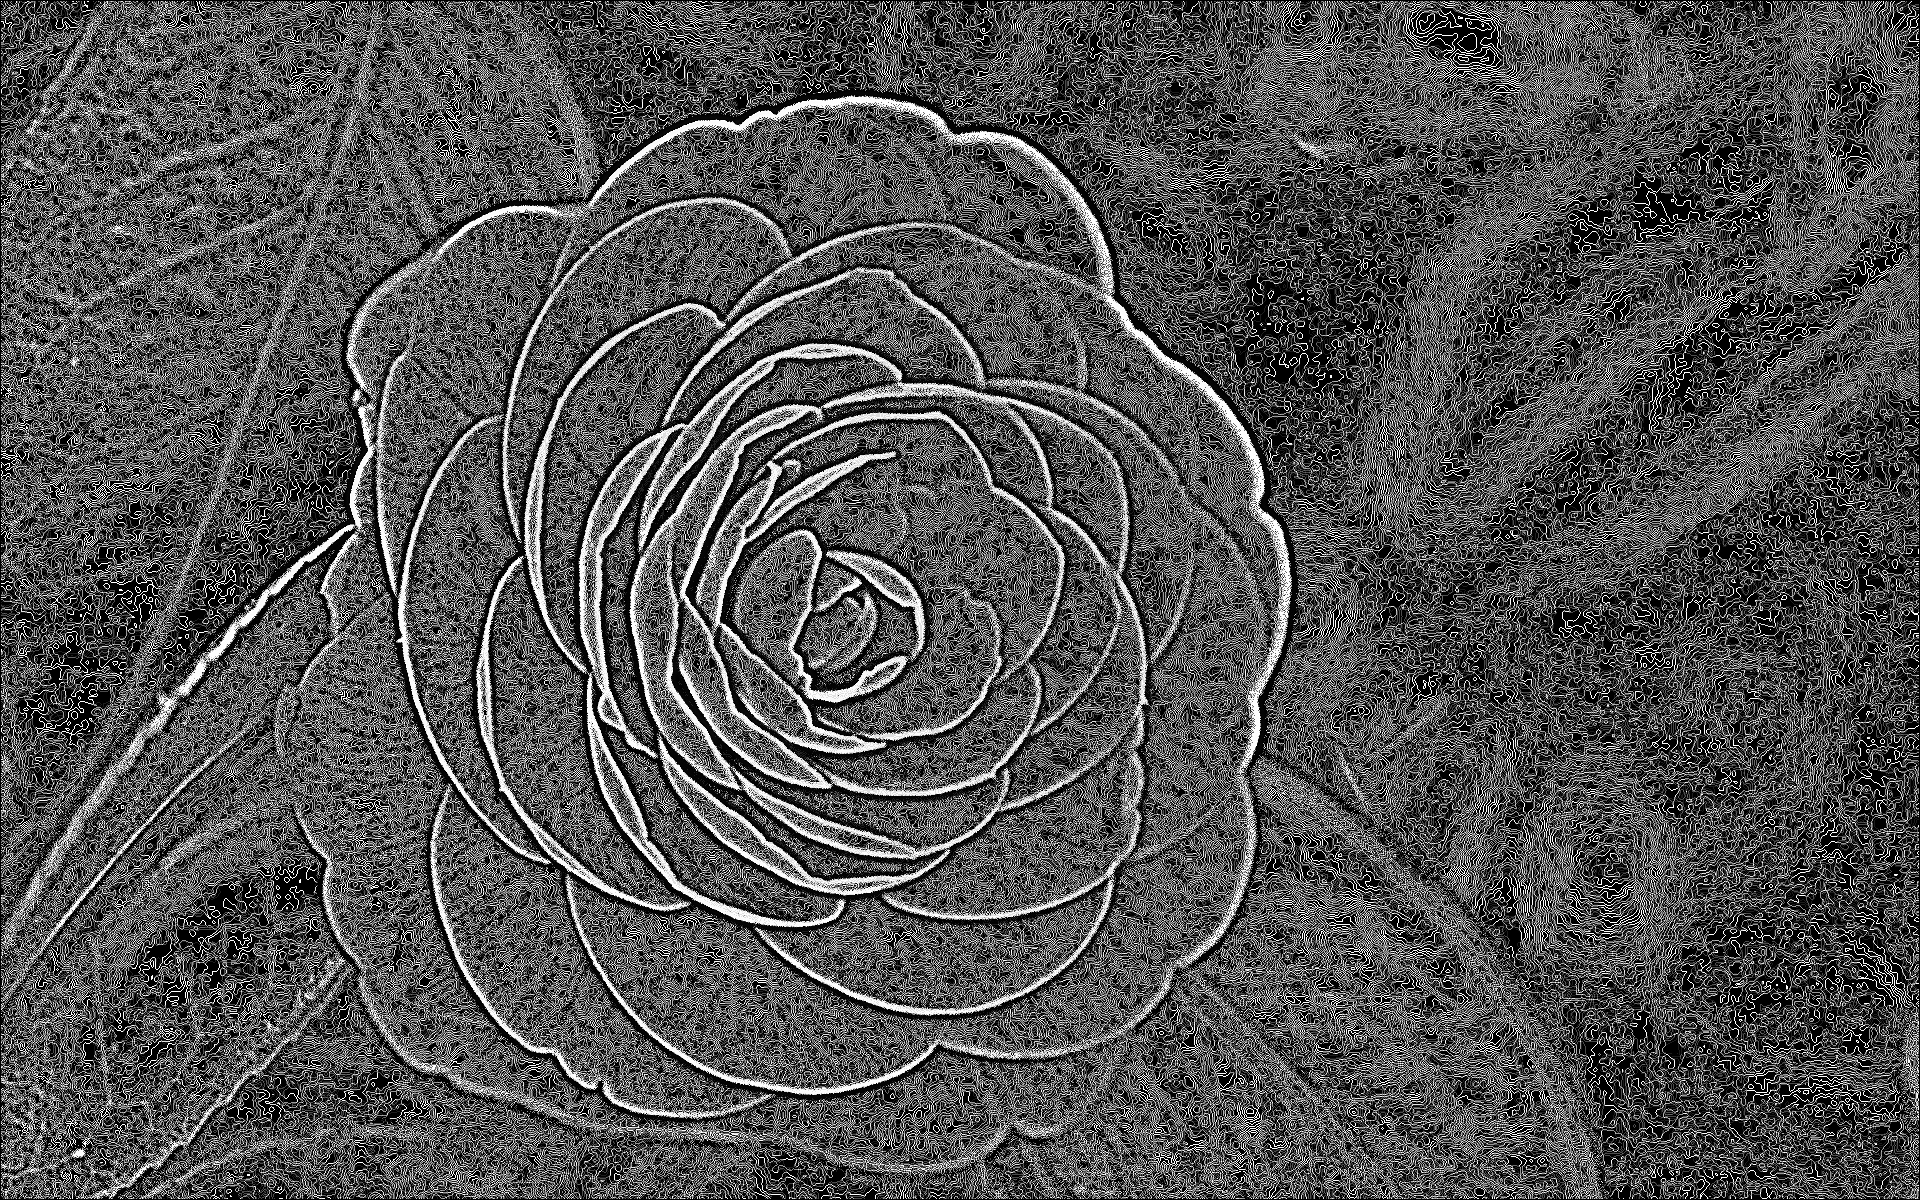
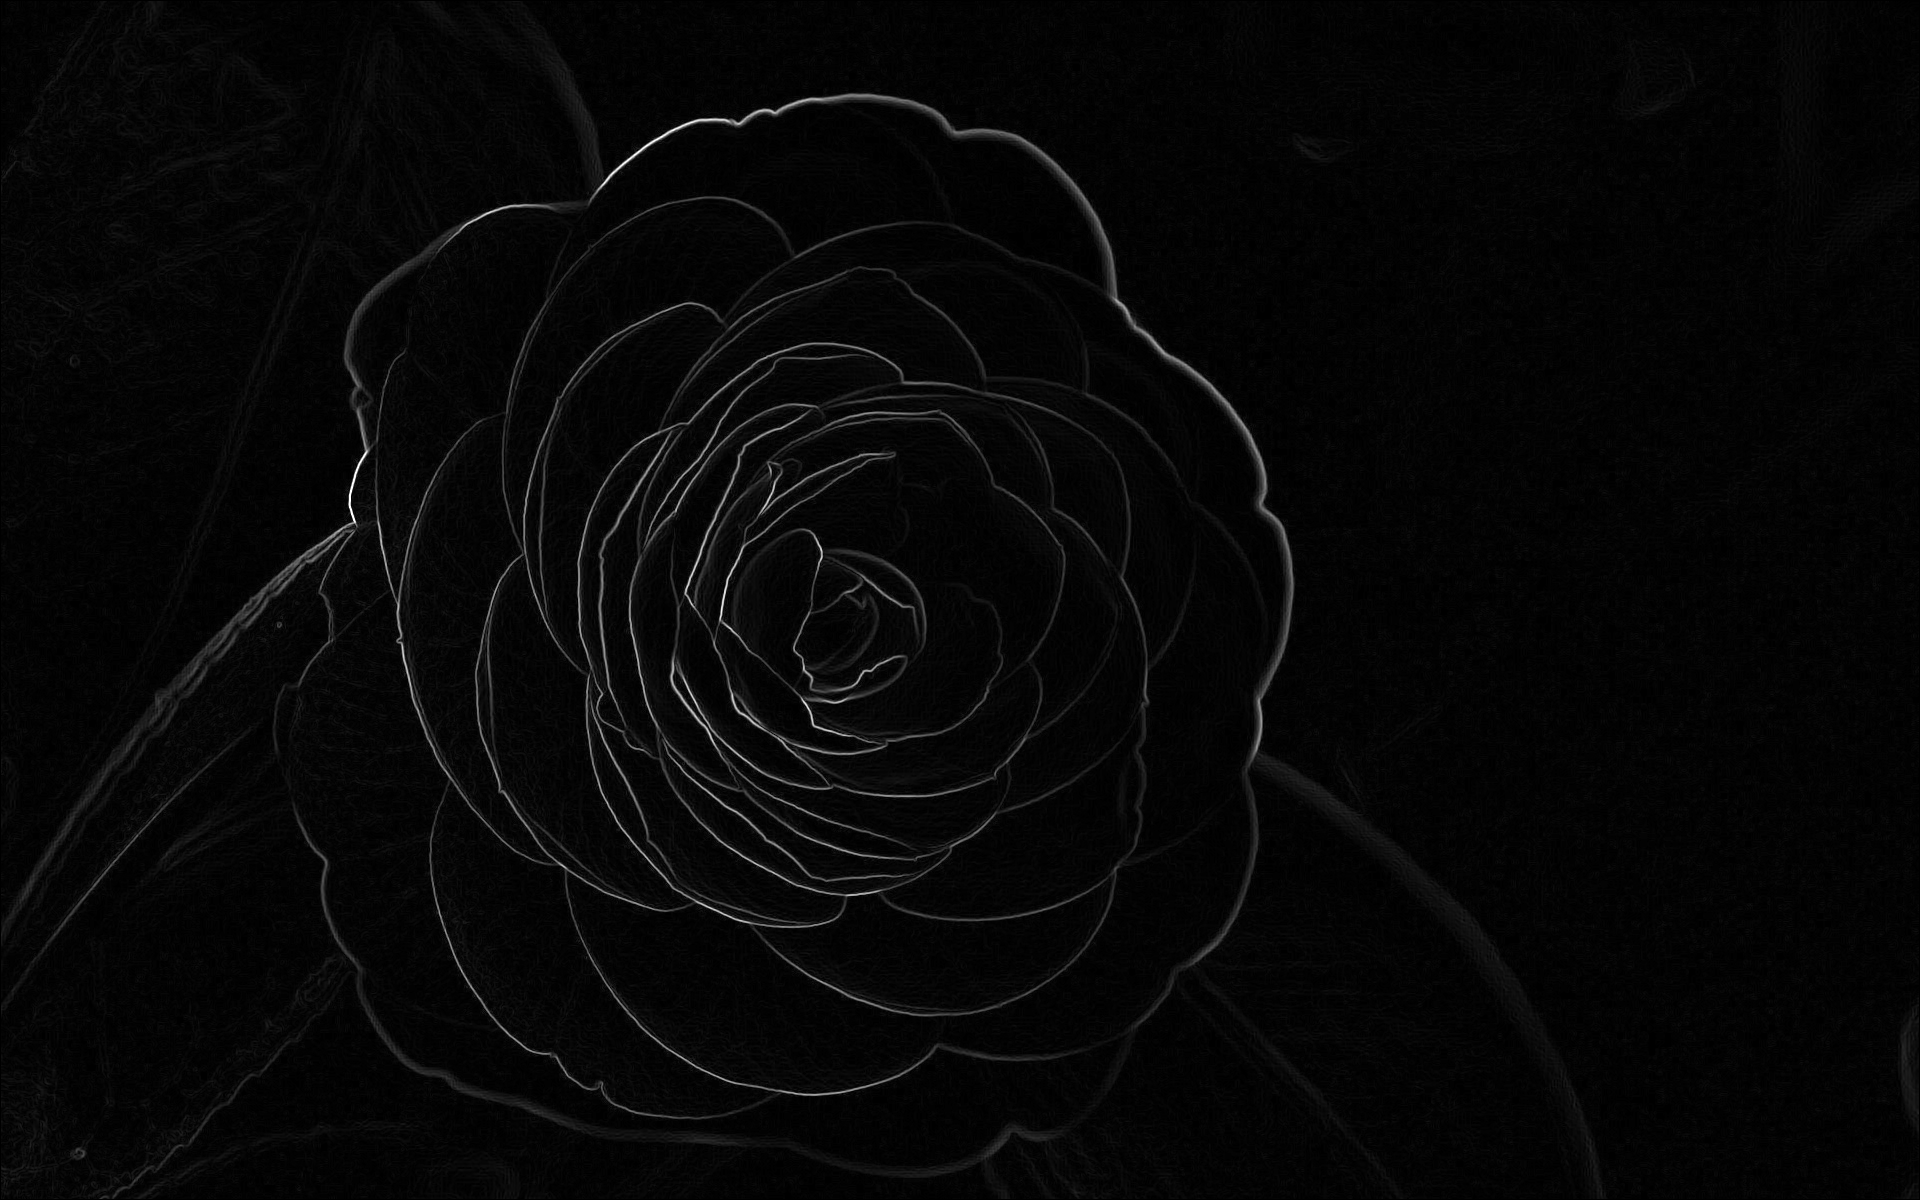
Fast and furious edge detected

diff --git a/fast_edge_detected.py b/fast_edge_detected.py
@@ -1,6 +1,139 @@
-def main():
-    pass
-    
+import cv2
+import numpy as np
+from scipy.signal import convolve2d
+
+
+def generate_sobel_filter(size):
+    if size % 2 == 0 or size < 3:
+        raise ValueError("Size must be an odd number greater than or equal to 3")
+    sobel_x, sobel_y = [], []
+
+    match size:
+        case 3:
+            sobel_x = np.array([[-1 / 2, 0, 1 / 2],
+                                [-1, 0, 1],
+                                [-1 / 2, 0, 1 / 2]])
+
+            sobel_y = np.array([[-1 / 2, -1, -1 / 2],
+                                [0, 0, 0],
+                                [1 / 2, 1, 1 / 2]])
+        case 5:
+            sobel_x = np.array([[-2 / 8, -1 / 5, 0, 1 / 5, 2 / 8],
+                                [-2 / 5, -1 / 2, 0, 1 / 2, 2 / 5],
+                                [-2 / 4, -1 / 1, 0, 1 / 1, 2 / 4],
+                                [-2 / 5, -1 / 2, 0, 1 / 2, 2 / 5],
+                                [-2 / 8, -1 / 5, 0, 1 / 5, 2 / 8]])
+
+            sobel_y = np.array([[-2 / 8, -2 / 5, -2 / 4, -2 / 5, -2 / 8],
+                                [-1 / 5, -1 / 2, -1 / 1, -1 / 2, -1 / 5],
+                                [0, 0, 0, 0, 0],
+                                [1 / 5, 1 / 2, 1 / 1, 1 / 2, 1 / 5],
+                                [2 / 8, 2 / 5, 2 / 4, 2 / 5, 2 / 8]])
+        case 7:
+            sobel_x = np.array([[-3 / 18, -2 / 13, -1 / 10, 0, 1 / 10, 2 / 13, 3 / 18],
+                                [-3 / 13, -2 / 8, -1 / 5, 0, 1 / 5, 2 / 8, 3 / 13],
+                                [-3 / 10, -2 / 5, -1 / 2, 0, 1 / 2, 2 / 5, 3 / 10],
+                                [-3 / 9, -2 / 4, -1 / 1, 0, 1 / 1, 2 / 4, 3 / 9],
+                                [-3 / 10, -2 / 5, -1 / 2, 0, 1 / 2, 2 / 5, 3 / 10],
+                                [-3 / 13, -2 / 8, -1 / 5, 0, 1 / 5, 2 / 8, 3 / 13],
+                                [-3 / 18, -2 / 13, -1 / 10, 0, 1 / 10, 2 / 13, 3 / 18]])
+
+            sobel_y = np.array([[-3 / 18, -3 / 13, -3 / 10, -3 / 9, -3 / 10, -3 / 13, -3 / 18],
+                                [-2 / 13, -2 / 8, -2 / 5, -2 / 4, -2 / 5, -2 / 8, -2 / 13],
+                                [-1 / 10, -1 / 5, -1 / 2, -1 / 1, 0, -1 / 5, -1 / 10],
+                                [0, 0, 0, 0, 0, 0, 0],
+                                [1 / 10, 1 / 5, 1 / 2, 1 / 1, 0, 1 / 5, 1 / 10],
+                                [2 / 13, 2 / 8, 2 / 5, 2 / 4, 2 / 5, 2 / 8, 2 / 13],
+                                [3 / 18, 3 / 13, 3 / 10, 3 / 9, 3 / 10, 3 / 13, 3 / 18]])
+
+    return sobel_x, sobel_y
+
+
+def apply_custom_sobel_filter(image, filter_size):
+    sobel_x, sobel_y = generate_sobel_filter(filter_size)
+
+    gradient_x = convolve2d(image, sobel_x, mode='same', boundary='symm')
+    gradient_y = convolve2d(image, sobel_y, mode='same', boundary='symm')
+
+    # Вычисляем абсолютное значение градиента
+    gradient_magnitude = np.sqrt(gradient_x ** 2 + gradient_y ** 2).astype(np.uint8)
+
+    return gradient_magnitude
+
+
+def custom_gaussian_kernel(kernel_size, sigma):
+    """
+    Создает ядро фильтра Гаусса заданного размера и сигмой.
+    """
+    kernel = np.zeros((kernel_size, kernel_size))
+
+    center = kernel_size // 2
+    for x in range(kernel_size):
+        for y in range(kernel_size):
+            distance_sq = (x - center) ** 2 + (y - center) ** 2
+            kernel[x, y] = np.exp(-distance_sq / (2 * sigma ** 2))
+
+    kernel /= np.sum(kernel)
+
+    return kernel
+
+
+def apply_custom_gaussian_filter(image_array, sigma):
+    kernel_size = int(sigma * 6 + 1)
+    if kernel_size % 2 == 0:
+        kernel_size += 1
+    gaussian_kernel = custom_gaussian_kernel(kernel_size, sigma)
+
+    filtered_image = convolve2d(image_array, gaussian_kernel, mode='same', boundary='symm')
+
+    return filtered_image.astype(np.uint8)
+
+
+def apply_difference_of_gaussian_filter(image, sigma1):
+    """
+    Применяет фильтр DoG (Difference of Gaussians) к изображению.
+    """
+    sigma2 = sigma1 * 1.6
+
+    # Преобразуем изображение в массив numpy
+    image_array = np.array(image)
+
+    blurred_image1 = apply_custom_gaussian_filter(image_array, sigma1)
+    blurred_image2 = apply_custom_gaussian_filter(image_array, sigma2)
+
+    # Вычисляем разность двух размытых изображений
+    dog_image = np.abs(blurred_image1 - blurred_image2)
+
+    # Преобразуем значения в диапазон [0, 255] и приводим к типу uint8
+    dog_image = np.clip(dog_image, 0, 255).astype(np.uint8)
+    return dog_image
+
+
+def apply_custom_laplacian_of_gaussian_filter(image, sigma):
+    # Применяем фильтр Гаусса
+    blurred_image = apply_custom_gaussian_filter(image, sigma)
+
+    # Фильтр Лапласа
+    laplacian_filter = np.array([[0, 1, 0],
+                                 [1, -4, 1],
+                                 [0, 1, 0]])
+
+    filtered_image = convolve2d(blurred_image, laplacian_filter, mode='same', boundary='symm')
+
+    return filtered_image.astype(np.uint8)
+
 
 if __name__ == "__main__":
-    main()
+    input_image_path = "images/flower.jpg"
+    # Чтение изображения с помощью cv2
+    input_image = cv2.imread(input_image_path, cv2.IMREAD_GRAYSCALE)
+    out_image = apply_difference_of_gaussian_filter(input_image, 1)
+
+    # Отображение изображения
+    cv2.imshow("Filtered image", out_image)
+    cv2.waitKey(0)
+    cv2.destroyAllWindows()
+
+    # Сохранение изображения
+    output_image_path = "sobel_result.jpg"
+    cv2.imwrite(output_image_path, out_image)
